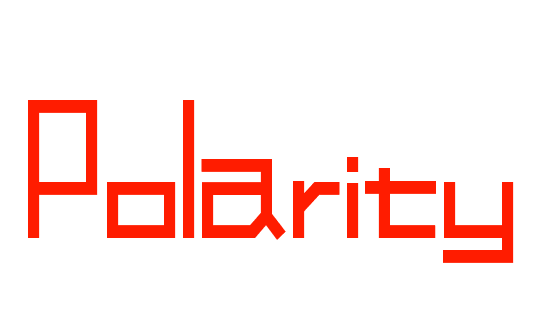
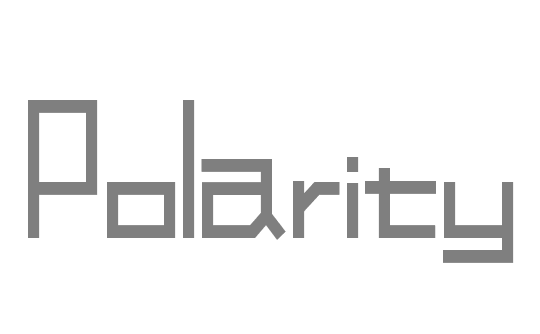
added rotating visual interest to title screen

Changed region(s): [[0.0296, 0.2994, 0.9481, 0.8084], [0.6222, 0.4491, 0.6815, 0.509]]

diff --git a/core/src/com/game/Player.java b/core/src/com/game/Player.java
@@ -38,7 +38,6 @@ public class Player implements InputProcessor
 	private boolean isInvincible;
 	private boolean isFacingRight;
 	private boolean isDead;
-//	private boolean onObject, onObject2, onObject3;
 	private boolean victory, clingSoundPlayed;
 	
 	private PlayerState state;
@@ -55,6 +54,7 @@ public class Player implements InputProcessor
 	
 	
 	private float stateTime = 0;
+	private float healthTime = 0;
 	
 	/* =========== ANIMATIONS =========== */
 	private Texture idle;
@@ -216,7 +216,7 @@ public class Player implements InputProcessor
 			break;
 		}
 		
-		TextureRegion currentFrame = anim.getKeyFrame(stateTime, loop);
+		TextureRegion currentFrame = anim.getKeyFrame(stateTime, loop);	
 		this.width = currentFrame.getRegionWidth();
 		this.height = currentFrame.getRegionHeight();
 		
@@ -1005,64 +1005,21 @@ public class Player implements InputProcessor
 	
 	private void healthLowColours(Batch batch, TextureRegion currFrame) {
 		TextureRegion cf2 = currFrame;
-		float st = this.stateTime;
+		float st = this.healthTime;
 		
-		if(st % 20 < 5) {
-			batch.setColor(1.0f, 0, 0, 0.5f);
-			batch.draw(cf2, this.x - 2, this.y - 1, (this.width / 2), (this.height / 2), 
-					this.width, this.height, 1, 1, 
-					(((st % 10)) * 4.5f)); // red
-			batch.setColor(0, 1.0f, 0, 0.5f);
-			batch.draw(cf2, this.x, this.y + 2, (this.width / 2), (this.height / 2), 
-					this.width, this.height, 1, 1, 
-					-(((st % 10)) * 4.5f)); // green
-			batch.setColor(0, 0, 1.0f, 0.5f);
-			batch.draw(cf2, this.x + 2, this.y - 1, (this.width / 2), (this.height / 2), 
-					this.width, this.height, 1, 1, 
-					(((st % 10)) * 4.5f)); // blue
-		}
-		else if(st % 20 >= 5 && st % 20 < 10) {
-			batch.setColor(1.0f, 0, 0, 0.5f);
-			batch.draw(cf2, this.x - 2, this.y - 1, (this.width / 2), (this.height / 2), 
-					this.width, this.height, 1, 1, 
-					-((st % 10) - 10) * 4.5f); // red
-			batch.setColor(0, 1.0f, 0, 0.5f);
-			batch.draw(cf2, this.x, this.y + 2, (this.width / 2), (this.height / 2), 
-					this.width, this.height, 1, 1, 
-					((st % 10) - 10) * 4.5f); // green
-			batch.setColor(0, 0, 1.0f, 0.5f);
-			batch.draw(cf2, this.x + 2, this.y - 1, (this.width / 2), (this.height / 2), 
-					this.width, this.height, 1, 1, 
-					-((st % 10) - 10) * 4.5f); // blue
-		}
-		else if(st % 20 >= 10 && st % 20 < 15) {
-			batch.setColor(1.0f, 0, 0, 0.5f);
-			batch.draw(cf2, this.x - 2, this.y - 1, (this.width / 2), (this.height / 2), 
-					this.width, this.height, 1, 1, 
-					-((st % 10)) * 4.5f); // red
-			batch.setColor(0, 1.0f, 0, 0.5f);
-			batch.draw(cf2, this.x, this.y + 2, (this.width / 2), (this.height / 2), 
-					this.width, this.height, 1, 1, 
-					((st % 10)) * 4.5f); // green
-			batch.setColor(0, 0, 1.0f, 0.5f);
-			batch.draw(cf2, this.x + 2, this.y - 1, (this.width / 2), (this.height / 2), 
-					this.width, this.height, 1, 1, 
-					-((st % 10)) * 4.5f); // blue
-		}
-		else {
-			batch.setColor(1.0f, 0, 0, 0.5f);
-			batch.draw(cf2, this.x - 2, this.y - 1, (this.width / 2), (this.height / 2), 
-					this.width, this.height, 1, 1, 
-					((st % 10) - 10) * 4.5f); // red
-			batch.setColor(0, 1.0f, 0, 0.5f);
-			batch.draw(cf2, this.x, this.y + 2, (this.width / 2), (this.height / 2), 
-					this.width, this.height, 1, 1, 
-					-((st % 10) - 10) * 4.5f); // green
-			batch.setColor(0, 0, 1.0f, 0.5f);
-			batch.draw(cf2, this.x + 2, this.y - 1, (this.width / 2), (this.height / 2), 
-					this.width, this.height, 1, 1, 
-					((st % 10) - 10) * 4.5f); // blue
-		}
+		// draw green
+		batch.setColor(0, 1, 0, 0.6f);
+		batch.draw(cf2, (float) (x + -(3 * Math.cos((float)st / 100)) ), 
+				(float) (y + (3 * Math.sin((float)st / 100)) ));
+		// draw red
+		batch.setColor(1, 0, 0, 0.6f);
+		batch.draw(cf2, (float)(x + (3 * Math.cos((float)st / 100)) ), 
+				(float)(y + (3 * Math.sin((float)st / 100)) ));
+		// draw blue
+		batch.setColor(0, 0, 1, 0.6f);
+		batch.draw(cf2, (float) (x + (3 * Math.cos((float)st / 100)) ), 
+				(float) (y + -(3 * Math.sin((float)st / 100)) ));
 		batch.setColor(1,1,1,1);
+		healthTime++;
 	}
 }

diff --git a/core/src/com/game/screens/MainMenuScreen.java b/core/src/com/game/screens/MainMenuScreen.java
@@ -16,8 +16,8 @@ public class MainMenuScreen implements Screen {
 	private static final int NAME_WIDTH = 400;
 	private static final int NAME_HEIGHT = 200;
 	private boolean DEBUG = true;
-	
-	
+
+
 	Application game;
 	Texture playButtonActive;
 	Texture playButtonInactive;
@@ -25,8 +25,10 @@ public class MainMenuScreen implements Screen {
 	Texture exitButtonInactive;
 	Texture gameName;
 	Texture background;
-
 	
+	private int menuTimer = 0; // time variable used in the rotating "Polarity" functions
+
+
 	public MainMenuScreen(Application game){
 		this.game = game;
 		playButtonActive = new Texture("play_button_active.png");
@@ -40,7 +42,7 @@ public class MainMenuScreen implements Screen {
 	@Override
 	public void show() {
 		// TODO Auto-generated method stub
-		
+
 	}
 
 	@Override
@@ -50,20 +52,42 @@ public class MainMenuScreen implements Screen {
 		game.batch.begin();
 		/*set the background*/
 		game.batch.draw(background, 0, 0, 1280, 728);
-		/*set game name*/
-		game.batch.draw(gameName, 1280/2-NAME_WIDTH/2, 460, NAME_WIDTH, NAME_HEIGHT);
-       /* set the play button*/ 
+		
+		
+		/*set game name*/		
+		float cx = 1280/2-NAME_WIDTH/2;
+		float cy = 460;
+		
+		// draw green
+		game.batch.setColor(0, 1, 0, 0.6f);
+		game.batch.draw(gameName, (float) (cx + -(5 * Math.cos((float)menuTimer / 30)) ), 
+				(float) (cy + (5 * Math.sin((float)menuTimer / 30)) ), NAME_WIDTH, NAME_HEIGHT);
+		// draw red
+		game.batch.setColor(1, 0, 0, 0.6f);
+		game.batch.draw(gameName, (float)(cx + (5 * Math.cos((float)menuTimer / 30)) ), 
+				(float)(cy + (5 * Math.sin((float)menuTimer / 30)) ), NAME_WIDTH, NAME_HEIGHT);
+		// draw blue
+		game.batch.setColor(0, 0, 1, 0.6f);
+		game.batch.draw(gameName, (float) (cx + (5 * Math.cos((float)menuTimer / 30)) ), 
+				(float) (cy + -(5 * Math.sin((float)menuTimer / 30)) ), NAME_WIDTH, NAME_HEIGHT);
+		
+		// clear the colours
+		game.batch.setColor(1, 1, 1, 1);
+		menuTimer++; // increment the time variable
+		
+		game.batch.draw(gameName, cx, cy, NAME_WIDTH, NAME_HEIGHT);
+		/* set the play button*/ 
 		int x =1280/2-PLAY_WIDTH/2;
 		if(Gdx.input.getX()>x && Gdx.input.getX()<x+PLAY_WIDTH && 728- Gdx.input.getY()>200 && 728- Gdx.input.getY()<200+PLAY_HEIGHT){
-		game.batch.draw(playButtonActive, 1280/2-PLAY_WIDTH/2, 200, PLAY_WIDTH, PLAY_HEIGHT);
-		if(Gdx.input.isTouched()){
-			game.setScreen(new PlayScreen(DEBUG));
-		}
+			game.batch.draw(playButtonActive, 1280/2-PLAY_WIDTH/2, 200, PLAY_WIDTH, PLAY_HEIGHT);
+			if(Gdx.input.isTouched()){
+				game.setScreen(new PlayScreen(DEBUG));
+			}
 		}
 		else{
 			game.batch.draw(playButtonInactive, 1280/2-PLAY_WIDTH/2, 200, PLAY_WIDTH, PLAY_HEIGHT);
-		
-	
+
+
 		}
 		/* set the exit button*/
 		int a =1280/2-EXIT_WIDTH/2;
@@ -71,45 +95,45 @@ public class MainMenuScreen implements Screen {
 			game.batch.draw(exitButtonActive, 1280/2-EXIT_WIDTH/2, 100, EXIT_WIDTH, EXIT_HEIGHT);
 			if(Gdx.input.isTouched()){
 				Gdx.app.exit();
-				
+
 			}
-			}
-			else{
-				game.batch.draw(exitButtonInactive, 1280/2-EXIT_WIDTH/2, 100, EXIT_WIDTH, EXIT_HEIGHT);
-		
-			}
+		}
+		else{
+			game.batch.draw(exitButtonInactive, 1280/2-EXIT_WIDTH/2, 100, EXIT_WIDTH, EXIT_HEIGHT);
+
+		}
 		game.batch.end();
-		
+
 	}
 
 	@Override
 	public void resize(int width, int height) {
 		// TODO Auto-generated method stub
-		
+
 	}
 
 	@Override
 	public void pause() {
 		// TODO Auto-generated method stub
-		
+
 	}
 
 	@Override
 	public void resume() {
 		// TODO Auto-generated method stub
-		
+
 	}
 
 	@Override
 	public void hide() {
 		// TODO Auto-generated method stub
-		
+
 	}
 
 	@Override
 	public void dispose() {
 		// TODO Auto-generated method stub
-		
+
 	}
-	
+
 }
